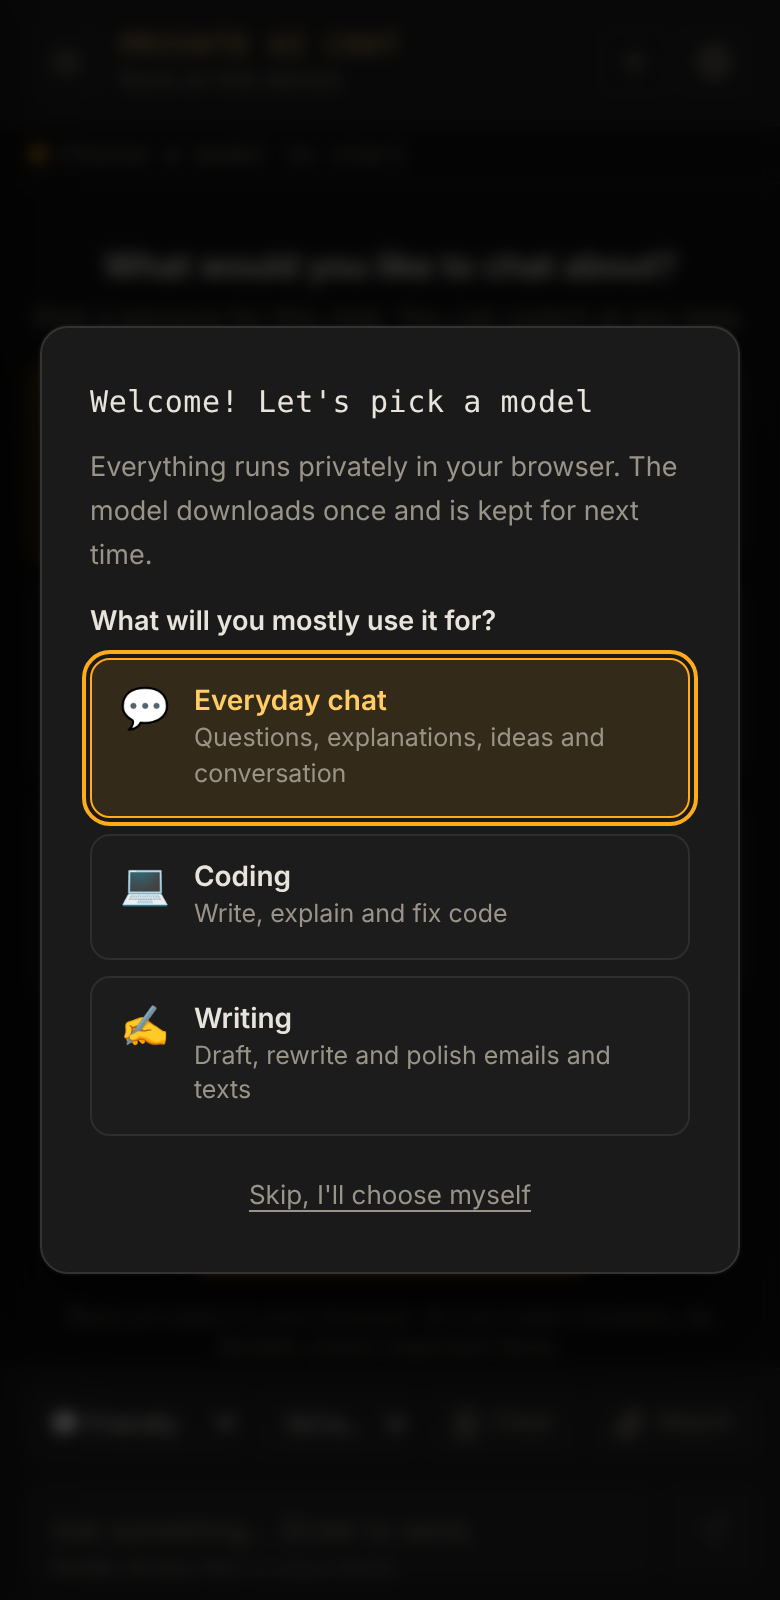
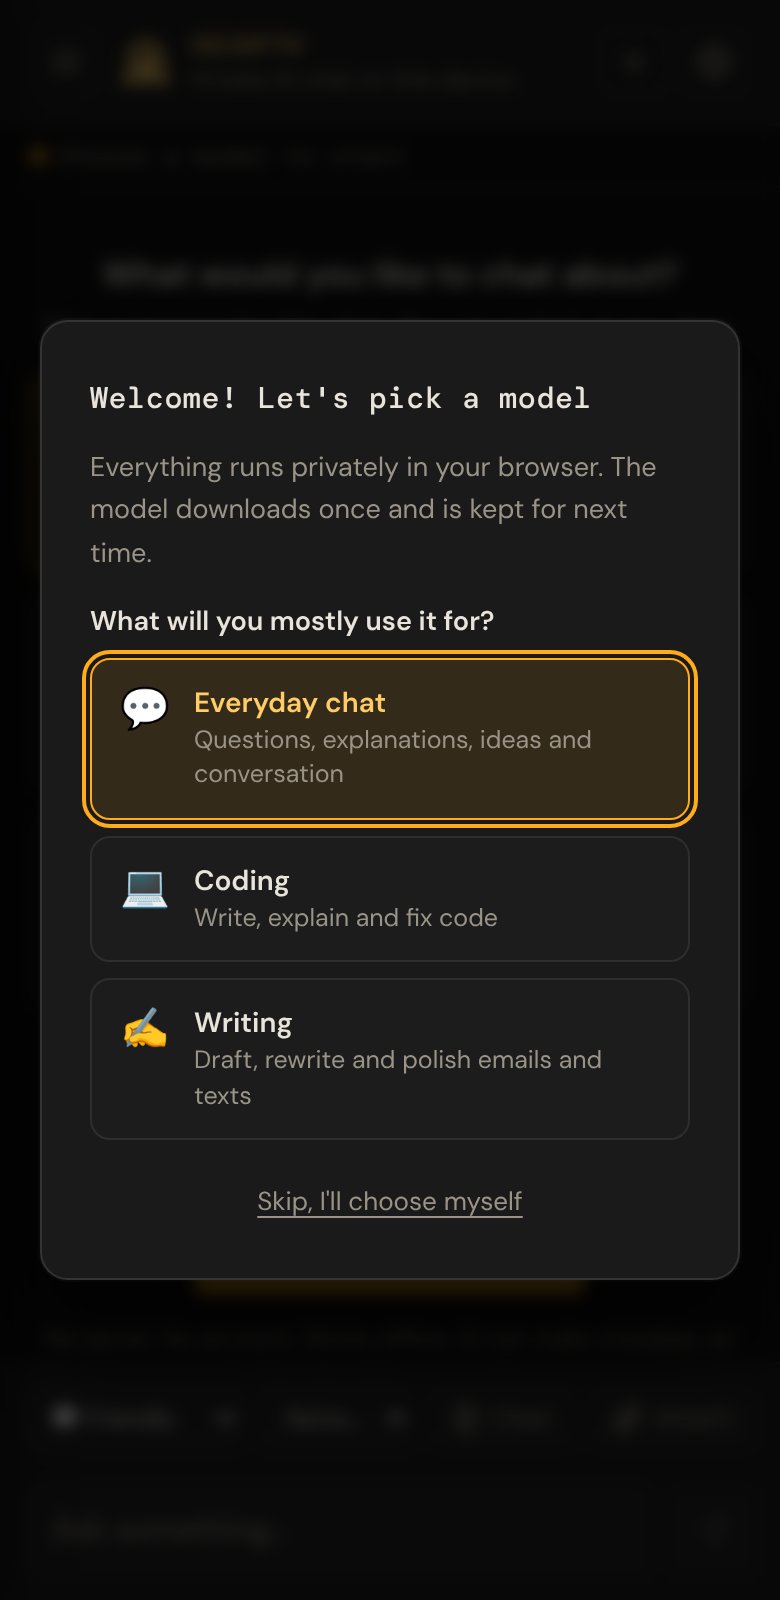
Redraw the documentation screenshots with the Hearth look
docs/screenshot.png and docs/screenshot-phone.png still showed the
"Private AI Chat" header and the old icon. They are now drawn by
`npm run screenshots` (tests/screenshots/docs.spec.js), which rebuilds
the same scenes with the test mocks, so no GPU is needed:

- the computer screenshot shows the same real Qwen3.5 2B conversation,
  stored as a saved chat with the model's replies word for word, at the
  same size (1280×900 at 2×);
- the phone screenshot shows the first-run model picker (390×800 at 2×).

The screenshots project only runs with SCREENSHOTS=1, so `npm test`
never rewrites the images.

Claude-Session: https://claude.ai/code/session_019fCd5oz5wZUQMiB3sF9QRn

diff --git a/tests/screenshots/docs.spec.js b/tests/screenshots/docs.spec.js
@@ -1,0 +1,83 @@
+// The screenshots in the README and the user manual (docs/*.png).
+//
+//   npm run screenshots
+//
+// Not part of `npm test`: it rewrites the images. The scenes are rebuilt
+// with the same mocks as the browser tests, so no GPU is needed. The chat
+// shown is a real conversation with Qwen3.5 2B (32-bit), stored as a saved
+// chat: the replies below are that model's own words, not written for the
+// picture. Keep them that way when you change the scene.
+import { test, expect, seedStorage, legacyChatItems, sleep } from "../support/fixtures.js";
+
+const DOCS = new URL("../../docs/", import.meta.url).pathname;
+const M = "Qwen3.5-2B-q4f32_1-MLC";
+
+// Wednesday 4 November 2026, 05:25 (the browser's time zone is set below)
+const NOW = new Date("2026-11-04T05:25:00");
+const at = (days, h, m) => {
+  const d = new Date(NOW);
+  d.setDate(d.getDate() - days);
+  d.setHours(h, m, 0, 0);
+  return d.getTime();
+};
+
+const LLM_CHAT = [
+  { role: "user", content: "Hi, do you know what an LLM is?" },
+  { role: "assistant", content:
+`Yes, I do! An **LLM** stands for **Large Language Model**.
+
+It's like an advanced computer program that is trained to read, understand, and generate human-like text. These models learn patterns from vast amounts of data (like books, code, and websites) so they can answer questions, write stories, or help with tasks.` },
+  { role: "user", content: "How does an LLM think and feel to understand human language?" },
+  { role: "assistant", content:
+`That's a great question! LLMs don't "think" or "feel" like humans in the way we do. Instead, they are trained to recognize patterns in human language.
+
+Here's how it works:
+
+1. **They learn patterns:** The model is trained on massive amounts of text, and it learns how words, phrases, and sentences relate to each other.
+2. **It predicts what comes next:** When you ask a question, the model predicts the next piece of text based on what it has learned.
+3. **It doesn't "feel" emotions:** It doesn't have feelings, emotions, or consciousness. It processes data and produces responses based on patterns.
+
+So, while they can work with human language very well, they don't have internal feelings or consciousness like humans do! 😊` },
+];
+
+// Older chats in the list: only their title and first line show
+const chats = [
+  { id: "llm", title: "What is an LLM?", preview: "LLMs don't think or feel like humans in the way we do.",
+    persona: "friendly", ts: at(0, 5, 19), messages: LLM_CHAT },
+  { id: "email", title: "Polite email declining a meeting", preview: "Here's a short, friendly draft…",
+    persona: "writer", ts: at(0, 4, 19), messages: [] },
+  { id: "debounce", title: "Debounce function in JavaScript", preview: "function debounce(fn, wait) {…",
+    persona: "coder", ts: at(1, 4, 2), messages: [] },
+  { id: "ideas", title: "Weekend side project ideas", preview: "1. A plant-watering reminder…",
+    persona: "brainstorm", ts: at(3, 10, 40), messages: [] },
+].map(c => ({ ...c, model: M }));
+
+test.use({ fakeWorker: true, timezoneId: "UTC", colorScheme: "dark", deviceScaleFactor: 2 });
+
+test("README and manual: a chat on a computer", async ({ page }) => {
+  await page.setViewportSize({ width: 1280, height: 900 });
+  await page.clock.setFixedTime(NOW);
+  await seedStorage(page, {
+    "webllm-settings": { model: M, defaultPersona: "friendly", settingsVersion: 2 },
+    "webllm-cached-models": [M],
+    "webllm-model-health": { [M]: { ok: true } },
+    ...legacyChatItems(chats),
+  });
+  await page.goto("/");
+  await expect(page.locator(".status-bar")).toContainText("Model loaded successfully");
+  await expect(page.locator(".message")).toHaveCount(4);
+  await page.mouse.move(0, 899); // no hover highlight
+  await sleep(300);
+  await page.screenshot({ path: DOCS + "screenshot.png" });
+});
+
+test.describe("phone", () => {
+  test.use({ viewport: { width: 390, height: 800 }, isMobile: true, hasTouch: true });
+
+  test("README and manual: the first-run model picker on a phone", async ({ page }) => {
+    await page.goto("/");
+    await expect(page.getByText("What will you mostly use it for?")).toBeVisible();
+    await sleep(400);
+    await page.screenshot({ path: DOCS + "screenshot-phone.png" });
+  });
+});

diff --git a/playwright.config.js b/playwright.config.js
@@ -1,4 +1,6 @@
 // Tests: `npm test` (all), `npm run test:unit`, `npm run test:e2e`.
+// `npm run screenshots` redraws the documentation images (docs/*.png); it
+// is left out of `npm test` because it rewrites them.
 // Browser tests run against the repository served as-is (tests/support/
 // server.js), with CDN libraries served from node_modules and WebLLM mocked
 // (tests/support/fixtures.js): no network, GPU or model downloads needed.
@@ -25,6 +27,9 @@ export default defineConfig({
   projects: [
     { name: "unit", testMatch: /unit\/.*\.spec\.js$/ },
     { name: "e2e", testMatch: /e2e\/.*\.spec\.js$/, use: { browserName: "chromium" } },
+    ...(process.env.SCREENSHOTS
+      ? [{ name: "screenshots", testMatch: /screenshots\/.*\.spec\.js$/, use: { browserName: "chromium" } }]
+      : []),
   ],
   webServer: {
     command: "node tests/support/server.js",

diff --git a/README.md b/README.md
@@ -464,6 +464,7 @@ npm run test:e2e      # the app in Chromium
 * **Unit tests** (`tests/unit/`) cover `quality.js`, `context.js`, `markdown.js`, `picker.js` (including model names and load progress), `attachments.js`, `pace.js`, `crash.js`, `storage.js` and `personas.js`
 * **Browser tests** (`tests/e2e/`) run the real app in Chromium: light and dark themes and their contrast, the docked chat list and text sizes, settings, download progress and cancel, readable model names, scrolling while a reply streams, the message box on desktop and phones, download and delete confirmations, keyboard focus and accessible names, chat storage (IndexedDB, migration, export/import, fallback), documents attached to chats, personas, reply rendering and safety, model health on broken 16-bit GPUs, Continue and the repeat guard (with the real `worker.js`), progress-based time limits and the writing-speed note, the model picker, offline mode, and the "new version available" banner
 * The tests need no network, GPU or model downloads: the pinned CDN libraries are served from `node_modules`, and WebLLM is replaced by a scripted mock (`tests/support/mock-webllm.js`); some UI tests use a fake worker (`tests/support/fake-worker.js`) that reads its model lists from `worker.js`
+* **Documentation screenshots** (`docs/screenshot.png`, `docs/screenshot-phone.png`) are drawn by `npm run screenshots` (`tests/screenshots/docs.spec.js`) with the same mocks, so they can be redrawn after any UI change without a GPU. The chat shown is a real Qwen3.5 2B conversation stored as a saved chat, so its replies are the model's own words. `npm test` leaves the images alone
 * GitHub Actions runs everything on every pull request and on pushes to `main` (`.github/workflows/tests.yml`)
 * When you change a pinned library version, update every place it appears together: `index.html` (Vue, Vue Router, marked, DOMPurify, highlight.js, PDF.js), `worker.js` (WebLLM and its `WEBLLM_VERSION` constant, Transformers.js), `sw.js`, `package.json`, `tests/support/fixtures.js` and the library list in `tests/e2e/offline.spec.js`. `grep -rn "<old version>" --exclude-dir=node_modules .` finds them all
 
